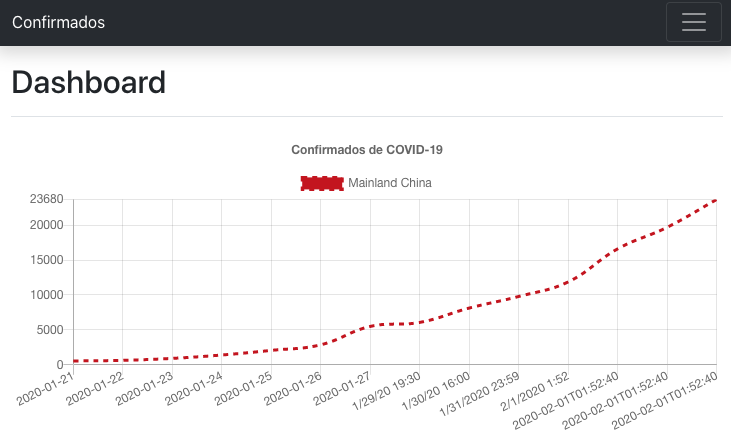
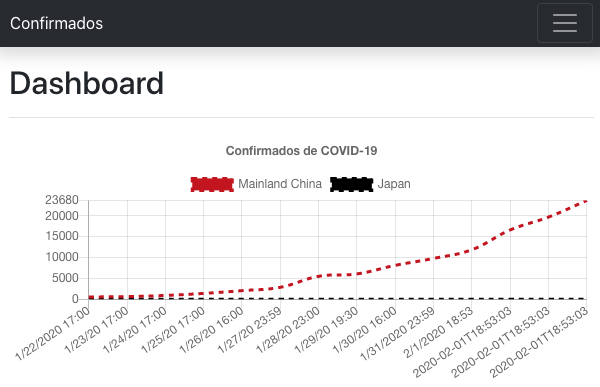
wip: carregando arquivos csv para json

diff --git a/integrate/casesAll.js b/integrate/casesAll.js
@@ -1,1 +1,1 @@
-[{"Last Update":"2020-02-04T23:43:01","Confirmed":16678},{"Last Update":"2020-02-04T13:03:07","Confirmed":829},{"Last Update":"2020-02-04T13:03:07","Confirmed":813},{"Last Update":"2020-02-04T11:53:02","Confirmed":675},{"Last Update":"2020-02-04T14:03:03","Confirmed":593},{"Last Update":"2020-02-04T05:33:01","Confirmed":480},{"Last Update":"2020-02-04T14:43:02","Confirmed":476},{"Last Update":"2020-02-04T23:43:01","Confirmed":366},{"Last Update":"2020-02-04T11:53:02","Confirmed":308},{"Last Update":"2020-02-04T01:43:02","Confirmed":282},{"Last Update":"2020-02-04T12:03:04","Confirmed":275},{"Last Update":"2020-02-04T08:33:01","Confirmed":228},{"Last Update":"2020-02-04T06:33:02","Confirmed":219},{"Last Update":"2020-02-04T12:13:11","Confirmed":194},{"Last Update":"2020-02-04T07:43:01","Confirmed":155},{"Last Update":"2020-02-04T12:33:02","Confirmed":142},{"Last Update":"2020-02-04T05:53:01","Confirmed":139},{"Last Update":"2020-02-04T08:53:01","Confirmed":126},{"Last Update":"2020-02-04T23:23:02","Confirmed":122},{"Last Update":"2020-02-04T14:13:08","Confirmed":81},{"Last Update":"2020-02-04T23:23:02","Confirmed":81},{"Last Update":"2020-02-04T11:33:03","Confirmed":80},{"Last Update":"2020-02-04T13:33:02","Confirmed":67},{"Last Update":"2020-02-04T10:43:02","Confirmed":58},{"Last Update":"2020-02-04T15:43:02","Confirmed":57},{"Last Update":"2020-02-04T00:23:05","Confirmed":42},{"Last Update":"2020-02-04T03:03:07","Confirmed":35},{"Last Update":"2020-02-04T02:13:18","Confirmed":34},{"Last Update":"2020-02-04T01:33:01","Confirmed":29},{"Last Update":"2020-02-04T15:33:03","Confirmed":25},{"Last Update":"2020-02-04T15:33:03","Confirmed":24},{"Last Update":"2020-02-04T16:43:03","Confirmed":22},{"Last Update":"2020-02-04T09:03:02","Confirmed":17},{"Last Update":"2020-02-04T15:33:03","Confirmed":16},{"Last Update":"2020-02-04T01:33:01","Confirmed":15},{"Last Update":"2020-02-03T20:53:02","Confirmed":12},{"Last Update":"2020-02-04T14:53:02","Confirmed":11},{"Last Update":"2020-02-04T04:43:02","Confirmed":10},{"Last Update":"2020-02-04T07:33:02","Confirmed":10},{"Last Update":"2020-02-03T21:43:02","Confirmed":8},{"Last Update":"2020-02-01T01:52:40","Confirmed":6},{"Last Update":"2020-02-02T05:43:01","Confirmed":5},{"Last Update":"2020-02-01T18:12:49","Confirmed":4},{"Last Update":"2020-02-01T18:12:49","Confirmed":4},{"Last Update":"2020-02-04T16:53:03","Confirmed":3},{"Last Update":"2020-02-03T21:43:02","Confirmed":3},{"Last Update":"2020-02-02T22:33:07","Confirmed":2},{"Last Update":"Canada","Confirmed":"2020-02-04T00:13:06"},{"Last Update":"2020-01-31T08:15:53","Confirmed":2},{"Last Update":"2020-02-02T03:33:07","Confirmed":2},{"Last Update":"2020-01-31T16:13:45","Confirmed":2},{"Last Update":"2020-02-01T01:52:40","Confirmed":2},{"Last Update":"US","Confirmed":"2020-02-01T19:43:03"},{"Last Update":"US","Confirmed":"2020-02-03T03:53:02"},{"Last Update":"US","Confirmed":"2020-02-03T00:43:02"},{"Last Update":"2020-02-04T15:43:02","Confirmed":1},{"Last Update":"2020-01-31T08:15:53","Confirmed":1},{"Last Update":"2020-02-01T18:12:49","Confirmed":1},{"Last Update":"Canada","Confirmed":"2020-02-04T00:03:11"},{"Last Update":"2020-01-31T08:15:53","Confirmed":1},{"Last Update":"2020-02-01T01:52:40","Confirmed":1},{"Last Update":"2020-01-31T08:15:53","Confirmed":1},{"Last Update":"2020-02-01T23:43:02","Confirmed":1},{"Last Update":"2020-01-31T08:15:53","Confirmed":1},{"Last Update":"2020-02-01T02:13:26","Confirmed":1},{"Last Update":"US","Confirmed":"2020-02-01T19:43:03"},{"Last Update":"US","Confirmed":"2020-02-01T19:53:03"},{"Last Update":"US","Confirmed":"2020-02-01T19:53:03"},{"Last Update":"US","Confirmed":"2020-02-01T19:43:03"},{"Last Update":"US","Confirmed":"2020-02-01T19:43:03"},{}]
+[{"Last Update":"1/24/20 17:00","Confirmed":549},{"Last Update":"1/24/20 17:00","Confirmed":53},{"Last Update":"1/24/20 17:00","Confirmed":43},{"Last Update":"1/24/20 17:00","Confirmed":36},{"Last Update":"1/24/20 17:00","Confirmed":27},{"Last Update":"1/24/20 17:00","Confirmed":24},{"Last Update":"1/24/20 17:00","Confirmed":23},{"Last Update":"1/24/20 17:00","Confirmed":20},{"Last Update":"1/24/20 17:00","Confirmed":18},{"Last Update":"1/24/20 17:00","Confirmed":15},{"Last Update":"1/24/20 17:00","Confirmed":15},{"Last Update":"1/24/20 17:00","Confirmed":15},{"Last Update":"1/24/20 17:00","Confirmed":10},{"Last Update":"1/24/20 17:00","Confirmed":9},{"Last Update":"1/24/20 17:00","Confirmed":9},{"Last Update":"1/24/20 17:00","Confirmed":8},{"Last Update":"1/24/20 17:00","Confirmed":8},{"Last Update":"1/24/20 17:00","Confirmed":5},{"Last Update":"1/24/20 17:00","Confirmed":5},{"Last Update":"1/24/20 17:00","Confirmed":4},{"Last Update":"1/24/20 17:00","Confirmed":4},{"Last Update":"1/24/20 17:00","Confirmed":3},{"Last Update":"1/24/20 17:00","Confirmed":3},{"Last Update":"1/24/20 17:00","Confirmed":3},{"Last Update":"1/24/20 17:00","Confirmed":2},{"Last Update":"1/24/20 17:00","Confirmed":2},{"Last Update":"1/24/20 17:00","Confirmed":2},{"Last Update":"1/24/20 17:00","Confirmed":2},{"Last Update":"1/24/20 17:00","Confirmed":2},{"Last Update":"1/24/20 17:00","Confirmed":2},{"Last Update":"1/24/20 17:00","Confirmed":1},{"Last Update":"1/24/20 17:00","Confirmed":1},{"Last Update":"1/24/20 17:00","Confirmed":null},{"Last Update":"1/24/20 17:00","Confirmed":1},{"Last Update":"1/24/20 17:00","Confirmed":1},{"Last Update":"1/24/20 17:00","Confirmed":2},{"Last Update":"1/24/20 17:00","Confirmed":5},{"Last Update":"1/24/20 17:00","Confirmed":2},{"Last Update":"1/24/20 17:00","Confirmed":3},{"Last Update":"1/24/20 17:00","Confirmed":2},{"Last Update":"1/24/20 17:00","Confirmed":2}]:3},{"Last Update":"1/25/20 17:00","Confirmed":4},{"Last Update":"1/25/20 17:00","Confirmed":1},{"Last Update":"1/25/20 17:00","Confirmed":3}]":4},{"Last Update":"1/26/20 16:00","Confirmed":1},{"Last Update":"1/26/20 16:00","Confirmed":4},{"Last Update":"1/26/20 16:00","Confirmed":1}]

diff --git a/integrate/index.js b/integrate/index.js
@@ -2,8 +2,30 @@ const fs = require('fs');
 const path = require('path');
 
 // Arquivos
-var cases2020_01_21 = path.join(__dirname, 'csse_covid_19_daily_reports/02-04-2020.csv')
+var csseCovid19DailyReport = path.join(__dirname, 'csse_covid_19_daily_reports')
 var casesAll = path.join(__dirname,'casesAll.js');
+
+// from: 21/01/2020 to: Now
+function dateIntervalCOVID19() {
+   var iniDate = new Date("2020-01-21T00:00:00")
+   var endDate = new Date("2020-01-26T00:00")// Date.now()
+
+   var loop = new Date(iniDate);
+   while(loop <= endDate){
+      var day = ("0" + loop.getDate()).slice(-2)
+      var month = ("0" + loop.getMonth() + 1).slice(-2)
+      var year = loop.getFullYear()
+      var fileCSV = `${csseCovid19DailyReport}/${month}-${day}-${year}.csv`
+
+      whiteFile(fileCSV)   
+   
+      var newDate = loop.setDate(loop.getDate() + 1);
+      loop = new Date(newDate);
+   }
+
+}
+
+dateIntervalCOVID19()
 
 function csseCovid19DailyReports(csv) {
    var countries = {}
@@ -69,14 +91,16 @@ function csvJSON(csv){
     return JSON.stringify(result);
 }
 
-fs.readFile(cases2020_01_21, function(err, data) {
-   if (err) {
-      return console.error(err);
-   }
-   var csvToJSON = csseCovid19DailyReports(data.toString()) 
-   fs.writeFile(casesAll, csvToJSON, function(err) {
+function whiteFile(csvFile) {
+   fs.readFile(csvFile, function(err, data) {
       if (err) {
          return console.error(err);
       }
+      var csvToJSON = csseCovid19DailyReports(data.toString()) 
+      fs.writeFile(casesAll, csvToJSON, function(err) {
+         if (err) {
+            return console.error(err);
+         }
+      });
    });
-});
+}

diff --git a/confirmados/src/casesCountries/casesJapan.js b/confirmados/src/casesCountries/casesJapan.js
@@ -1,0 +1,26 @@
+let country = {
+    name: 'Japan',
+    color: '#000000'
+}
+
+let cases = [
+    { date: '1/22/2020 17:00', cases: 2 },
+    { date: '1/23/20 17:00', cases: 1 },
+    { date: '1/24/20 17:00', cases: 2 },
+    { date: '1/25/20 17:00', cases: 2 },
+    { date: '1/26/20 16:00', cases: 4 },
+    { date: '1/27/20 23:59', cases: 4 },
+    { date: '1/28/20 23:00', cases: 7 }, 
+    { date: '1/29/20 19:30', cases: 7 },
+    { date: '1/30/20 16:00', cases: 11 }, 
+    { date: '1/31/2020 23:59', cases: 15 },
+    { date: '2/1/2020 18:53', cases: 20 },
+    { date: '2020-02-01T18:53:03', cases: 20 },
+    { date: '2020-02-01T18:53:03', cases: 20 },
+    { date: '2020-02-01T18:53:03', cases: 20 }
+]
+
+export default {
+    country,
+    cases
+}

diff --git a/confirmados/src/Data.js b/confirmados/src/Data.js
@@ -1,13 +1,11 @@
 import { Loader } from './Loader.js'
-import brazil from './casesCountries/casesBrazil.js'
-import china from './casesCountries/casesChina.js'
-import usa from './casesCountries/casesUSA.js'
 import mainlandChina from './casesCountries/casesMainland_China.js'
+import japan from './casesCountries/casesJapan.js'
 
 let loader = new Loader()
 
-//loader.setCaseCountry(usa.country, usa.cases)
 loader.setCaseCountry(mainlandChina.country, mainlandChina.cases)
+loader.setCaseCountry(japan.country, japan.cases)
 
 
 console.info("MAX: " +loader.max)

diff --git a/README.md b/README.md
@@ -1,4 +1,4 @@
-# Confirmados do COVID-19
+# [WIP] Confirmados do COVID-19
 
 ## Confirmados
 
@@ -63,3 +63,5 @@ Chart.js: https://www.chartjs.org/
 Scheme Color: https://www.schemecolor.com/
 
 Mastering Markdown: https://guides.github.com/features/mastering-markdown/
+
+ISO 8601 Date and Time format: https://www.iso.org/iso-8601-date-and-time-format.html
